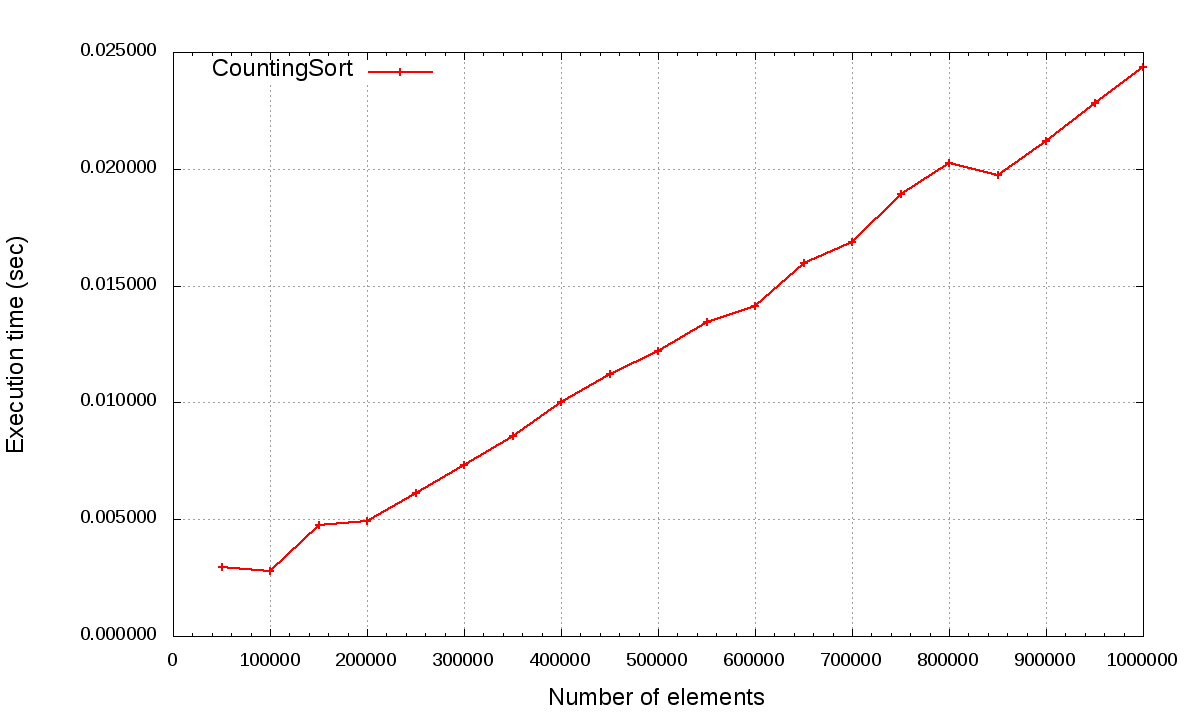
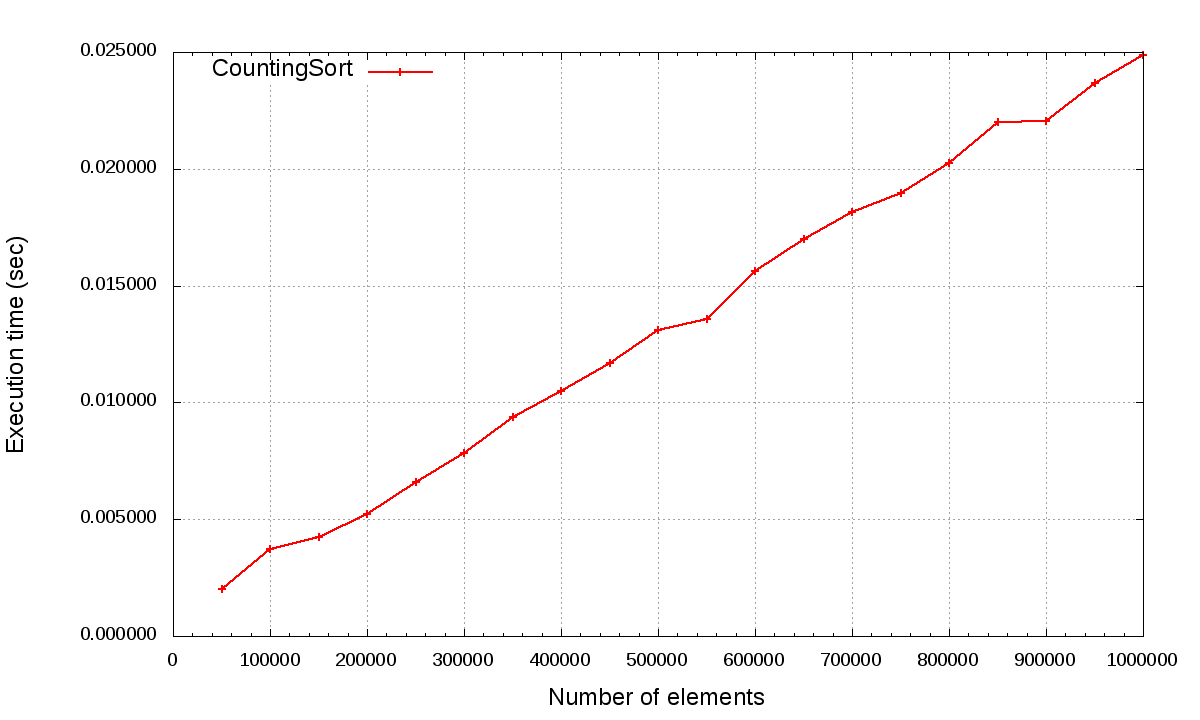
Counting Sort is stable now

diff --git a/lab1/NSort.c b/lab1/NSort.c
@@ -8,8 +8,9 @@
 void CountingSort(uint32_t *array, int size) // Counting Sort
 {
     uint32_t *count = (uint32_t *)malloc (size * sizeof(uint32_t));
+    uint32_t *arraycopy = (uint32_t *)malloc (size * sizeof(uint32_t));
   
-    if (array == NULL)
+    if (count == NULL || arraycopy == NULL)
     {
         printf("Error of memory allocation!\n");
         return EXIT_FAILURE;
@@ -30,11 +31,12 @@ void CountingSort(uint32_t *array, int size) // Counting Sort
     {
         for (int j = 0; j < count[i]; j++)
         {
-            array[x] = i;
+            arraycopy[x] = i;
             x++;
         }
     }
     free(count);
+    free(arraycopy);
 }
 
 void ISort(uint32_t *array, int size) // Insertion Sort
